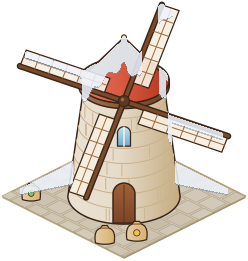
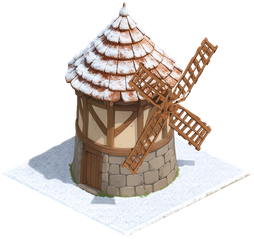
Ludo.ai art: feed mill with spinning sails and winter versions
One Ludo mill image; the body is a masked erase of its sails, and the
winter body an edit of the body. mill_sails.py cuts the sails out, turns
the clean front-right blade in the wall's 2:1 plane (four identical
blades, 8 frames of 11.25 degrees, so the loop has no jump), and fits
body, winter body and every frame into one shared box. The static mill
(build preview) is the body plus frame 0.

diff --git a/tools/ludo/mill_sails.py b/tools/ludo/mill_sails.py
@@ -1,0 +1,131 @@
+"""Feed mill: cut the sails out of the Ludo mill, spin them, and fit body, sails and static mill onto one canvas.
+
+Usage: python mill_sails.py OUT_DIR
+
+Reads source/feed_mill_raw.png (the whole mill), feed_mill_body_raw.png (the same image with the sails erased) and
+feed_mill_winter_raw.png (the body with snow). Writes source/feed_mill_sails_raw.png (the sails: the pixels where
+the whole mill and the body differ) and, in OUT_DIR, 2x/1x PNGs and NAME.json for feed_mill, feed_mill_winter,
+feed_mill_sails (8 frames in one row), feed_mill_static and feed_mill_static_winter, for install_prop.py.
+
+The sails lie in the plane of the tower's front-right wall. Each frame un-projects them from that wall's 2:1
+plane to face-on, turns them about the hub, and projects them back (the same projection as sails() in
+tools/art/buildings.py). Only the cleanest blade (the one drawn over empty background) is used, copied every 90°,
+so the four blades are identical and frame 8 would be frame 0: the loop has no jump. The hub is drawn on top of
+the blades in every frame, unturned. All pieces are fitted with the pad's corners and cropped to one shared box,
+so they line up at 1x and 2x; the static mill is the body plus frame 0.
+"""
+import math
+import os
+import sys
+import numpy as np
+from PIL import Image, ImageDraw, ImageFilter
+from fit_building import fit, save
+
+SRC = os.path.join(os.path.dirname(os.path.abspath(__file__)), 'source')
+CORNERS = (43, 510, 724, 511, 384.5, 680.8)  # pad's left, right and bottom top-surface corners (corners.py)
+HUB = (502.0, 327.0)                          # front face of the hub, raw px
+HUB_R = 13                                    # hub radius kept on top of the blades
+FRAMES = 8                                    # 90° (one blade to the next) in 8 steps
+# The sails, roughly, one quad per blade (raw px): only pixels in here can be sails.
+BLADES = ([(470, 300), (570, 112), (618, 145), (512, 318)], [(486, 360), (510, 316), (620, 388), (586, 452)],
+          [(445, 333), (488, 348), (386, 548), (333, 506)], [(338, 236), (385, 177), (492, 298), (470, 338)])
+KEEP = (-95, -5)  # face-on angles (degrees, v up) of the blade that is copied: the front-right one, over background
+# The front-right wall's axes on screen at 2:1 (camera 30° up): along the wall (to the right corner) and up.
+WALL = np.array([[math.sqrt(0.5), 0.0], [-math.sqrt(0.5) / 2, -math.sqrt(0.75)]])  # columns: u, v
+
+
+def cut_sails(whole, body):
+    """The whole mill's pixels inside the blade quads that the body does not have."""
+    m = Image.new('L', whole.size, 0)
+    for quad in BLADES:
+        ImageDraw.Draw(m).polygon(quad, fill=255)
+    m = np.asarray(m.filter(ImageFilter.MaxFilter(9))) > 0
+    w, b = np.asarray(whole).astype(int), np.asarray(body).astype(int)
+    differ = np.abs(w[..., :3] - b[..., :3]).sum(-1) > 90
+    sel = m & (((b[..., 3] < 128) & (w[..., 3] > 0)) | differ)
+    out = w.copy()
+    out[..., 3] = np.where(sel, w[..., 3], 0)
+    return Image.fromarray(out.astype(np.uint8))
+
+
+def face_on(size):
+    """Face-on (u, v) of every pixel, relative to the hub."""
+    ys, xs = np.mgrid[0:size[1], 0:size[0]]
+    d = np.stack([xs - HUB[0], ys - HUB[1]], -1)
+    return d @ np.linalg.inv(WALL).T
+
+
+def turned(im, deg):
+    """`im` turned by `deg` (counter-clockwise seen face-on) about the hub, in the wall's plane."""
+    t = math.radians(deg)
+    rot = np.array([[math.cos(-t), -math.sin(-t)], [math.sin(-t), math.cos(-t)]])
+    m = WALL @ rot @ np.linalg.inv(WALL)  # output pixel offset -> source pixel offset
+    c = np.array(HUB) - m @ np.array(HUB)
+    coeffs = (m[0, 0], m[0, 1], c[0], m[1, 0], m[1, 1], c[1])
+    # Premultiplied, so the edges don't pick up the transparent pixels' colour.
+    return im.convert('RGBa').transform(im.size, Image.Transform.AFFINE, coeffs, Image.Resampling.BICUBIC).convert('RGBA')
+
+
+def main(out_dir):
+    whole = Image.open(f'{SRC}/feed_mill_raw.png').convert('RGBA')
+    body = Image.open(f'{SRC}/feed_mill_body_raw.png').convert('RGBA')
+    winter = Image.open(f'{SRC}/feed_mill_winter_raw.png').convert('RGBA')
+    sails = cut_sails(whole, body)
+    sails.save(f'{SRC}/feed_mill_sails_raw.png', optimize=True)
+
+    uv = face_on(whole.size)
+    ang = np.degrees(np.arctan2(uv[..., 1], uv[..., 0]))
+    rad = np.hypot(uv[..., 0], uv[..., 1])
+    a = np.array(sails)
+    rgb = a[..., :3].astype(int)
+    # Wood only: the cut also catches a few pale specks of the wall and pad (sand and grey are far less saturated).
+    wood = rgb[..., 0] - rgb[..., 2] > 0.45 * rgb[..., 0]
+    a[..., 3] = np.where((ang > KEEP[0]) & (ang < KEEP[1]) & (rad > HUB_R) & wood, a[..., 3], 0)
+    blade = Image.fromarray(a)
+    ys, xs = np.mgrid[0:whole.height, 0:whole.width]
+    hub_alpha = np.clip(HUB_R + 1 - np.hypot(xs - HUB[0], ys - HUB[1]), 0, 1)  # 1 px soft edge
+    h = np.array(whole)
+    h[..., 3] = (h[..., 3] * hub_alpha).astype(np.uint8)
+    hub = Image.fromarray(h)
+
+    frames = []
+    for f in range(FRAMES):
+        fr = Image.new('RGBA', whole.size)
+        for k in range(4):
+            fr.alpha_composite(turned(blade, f * 90 / FRAMES + k * 90))
+        fr.alpha_composite(hub)
+        frames.append(fr)
+
+    pieces = {'feed_mill': fit(body, 2, 2, CORNERS), 'feed_mill_winter': fit(winter, 2, 2, CORNERS)}
+    sheet = [fit(fr, 2, 2, CORNERS, cut=False) for fr in frames]
+    # One box around everything, even-sized so the 1x halves line up frame by frame.
+    boxes = [im.getbbox() for im, _ in [*pieces.values(), *sheet]]
+    x0, y0 = min(b[0] for b in boxes) - 2, min(b[1] for b in boxes) - 2
+    x1, y1 = max(b[2] for b in boxes) + 2, max(b[3] for b in boxes) + 2
+    x1 += (x1 - x0) % 2
+    y1 += (y1 - y0) % 2
+    box = (x0, y0, x1, y1)
+    anchor = pieces['feed_mill'][1]
+    for name, (im, _) in pieces.items():
+        save(im, anchor, box, out_dir, name)
+        static = im.copy()
+        static.alpha_composite(sheet[0][0])
+        save(static, anchor, box, out_dir, name.replace('feed_mill', 'feed_mill_static'))
+    # The sheet: each frame cropped and halved on its own, laid in one row.
+    fw, fh = x1 - x0, y1 - y0
+    for res, k in (('2x', 1), ('1x', 2)):
+        out = Image.new('RGBA', (fw // k * FRAMES, fh // k))
+        for i, (im, _) in enumerate(sheet):
+            fr = im.crop(box)
+            if k > 1:
+                fr = fr.resize((fw // k, fh // k), Image.Resampling.LANCZOS)
+            out.paste(fr, (i * fw // k, 0))
+        out.save(f'{out_dir}/{res}_feed_mill_sails.png', optimize=True)
+    # Same anchor as the body (save() wrote it); copy it for the sheet.
+    with open(f'{out_dir}/feed_mill.json') as src, open(f'{out_dir}/feed_mill_sails.json', 'w') as dst:
+        dst.write(src.read())
+    print(f'feed_mill_sails: {FRAMES} frames of {fw}x{fh} (2x), {fw // 2}x{fh // 2} (1x)')
+
+
+if __name__ == '__main__':
+    main(sys.argv[1])

diff --git a/tools/ludo/README.md b/tools/ludo/README.md
@@ -16,6 +16,7 @@ git (or rerun the commands below) after running it.
 | `chicken_coop`, `chicken_coop_winter` | `chicken_coop_raw.png`, `chicken_coop_winter_raw.png` | all |
 | `granary_1..3`, each with `_winter` | `granary_{1,2,3}_raw.png`, `granary_{1,2,3}_winter_raw.png` | all |
 | `storehouse_1..3`, each with `_winter` | `storehouse_{1,2,3}_raw.png`, `storehouse_{1,2,3}_winter_raw.png` | all |
+| `feed_mill`, `feed_mill_winter`, `feed_mill_sails` (8 frames), `feed_mill_static`, `feed_mill_static_winter` | `feed_mill_raw.png`, `feed_mill_body_raw.png`, `feed_mill_sails_raw.png`, `feed_mill_winter_raw.png`; see **Feed mill** below | all |
 | `farmer` (spritesheet) | see **Farmer** below | all |
 | `grass_0..2`, `path_*` (16), `soil_tilled_x/y`, `soil_watered_x/y`, `unowned_0/1` | `grass_a_raw.png`, `grass_b_raw.png`, `dirt_raw.png`, `soil_raw.png`, `snow_raw.png`, `snow_path_raw.png` | all |
 | `tree_oak` (base, `_spring`, `_summer`, `_autumn`, `_winter`) | `tree_oak_raw.png`, `tree_oak_{spring,autumn,winter}_raw.png` | all |
@@ -95,7 +96,38 @@ the pad). Some code points into a building's 2x sprite and needs updating with i
 (`CHIMNEY_AT` in `src/features/families/index.ts`), the coop's run (`WALK_AREA` in
 `src/features/animals/textures.ts`), and the bakery's, dairy's and weaving hut's smoke (`SMOKE_AT` in
 `src/features/processing/textures.ts`). `--keep=N` is how many px below the pad's edge stay (default 2, the outline);
-lower it if bits of the soil outline show.
+lower it if bits of the soil outline show. `--box=X0,Y0,X1,Y1` crops the scaled 2x image to that box instead of
+its own bounds, so pieces fitted with the same corners share one canvas and anchor.
+
+## Feed mill: `mill_sails.py`
+
+The placed mill is a body with an 8-frame sails spritesheet over it (`feed_mill_sails_spin`, 10 fps); the build
+preview is `feed_mill_static`, the same mill with the sails baked in. All of them come from one Ludo image:
+
+1. `feed_mill_raw.png`: `generateWithStyle` (farmhouse as `style_image`, `sprite`), a windmill on a 2×2 pad with
+   four sails flat on the front-right wall, clear of the door.
+2. `feed_mill_body_raw.png`: `editImage` with a mask over the sails and `mask_mode: "erase"` (a `"replace"` edit
+   drew the sails back in). Erasing also redrew the hub, so the frames carry the hub instead.
+3. `feed_mill_winter_raw.png`: `editImage` on the body ("keep the same mill exactly ...; add snow on the cap and
+   roof, cover the pad in snow"). Its pad corners match the body's within 1 px, so it is fitted with the same box.
+4. `mill_sails.py` writes `feed_mill_sails_raw.png` (the pixels inside the blade quads where the whole mill and the
+   body differ). It then takes the front-right blade (the one drawn over empty background), un-projects it from the
+   wall's 2:1 plane to face-on, turns it about the hub, and projects it back, four times 90° apart, for 8 steps of
+   11.25°. The four blades are identical, so the 8th step would be frame 0 again and the loop has no jump. The hub,
+   cut from the whole mill, goes on top of each frame. The body, the winter body and every frame are fitted with
+   the pad corners (`fit_building.fit`) and cropped to one shared box. `feed_mill_static(_winter)` is the body
+   (winter body) plus frame 0, so the preview and the stopped placed mill are the same picture.
+
+```bash
+$P $L/mill_sails.py /tmp/props
+for n in feed_mill feed_mill_winter feed_mill_static feed_mill_static_winter feed_mill_sails; do
+  $P $L/install_prop.py /tmp/props $n
+done
+```
+
+`install_prop.py` sets a spritesheet's `frameWidth`/`frameHeight` (its columns and rows stay) and keeps its
+animations. The corners (`CORNERS`), the hub and the blade quads are constants at the top of `mill_sails.py`. The
+sails have no seasonal versions.
 
 ## Props: `fit_prop.py`
 
